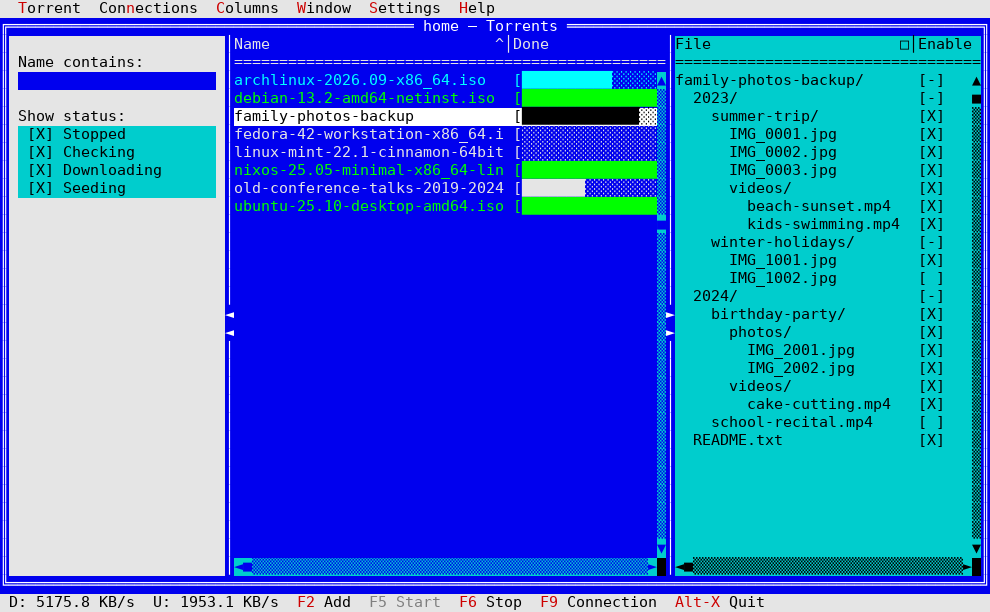
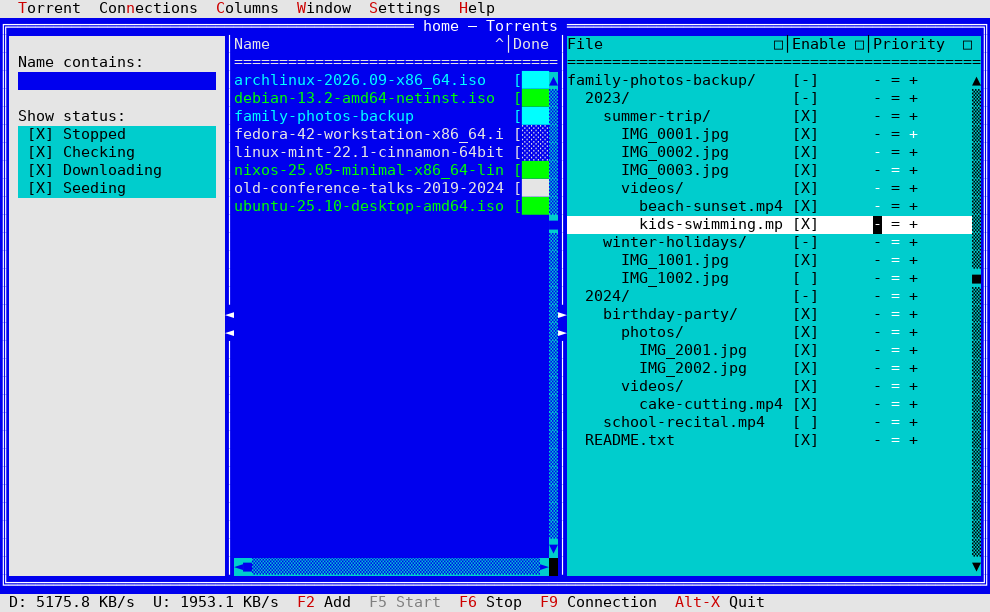
Add files via upload

diff --git a/src/ui/App.cpp b/src/ui/App.cpp
@@ -166,11 +166,11 @@ TMenuBar* App::initMenuBar(TRect r) {
 
     return new TMenuBar(r,
         *new TSubMenu(tr(Str::MenuTorrent), kbAltT) +
-            *new TMenuItem(tr(Str::MenuAdd), cmAddTorrent, kbF2) +
-            *new TMenuItem(tr(Str::MenuStart), cmStartTorrent, kbF5) +
-            *new TMenuItem(tr(Str::MenuStop), cmStopTorrent, kbF6) +
-            *new TMenuItem(tr(Str::MenuRemove), cmRemoveTorrent, kbF8) +
-            *new TMenuItem(tr(Str::MenuDeleteWithData), cmDeleteTorrentWithData, kbShiftF8) +
+            *new TMenuItem(tr(Str::MenuAdd), cmAddTorrent, kbF2, hcNoContext, "F2") +
+            *new TMenuItem(tr(Str::MenuStart), cmStartTorrent, kbF5, hcNoContext, "F5") +
+            *new TMenuItem(tr(Str::MenuStop), cmStopTorrent, kbF6, hcNoContext, "F6") +
+            *new TMenuItem(tr(Str::MenuRemove), cmRemoveTorrent, kbF8, hcNoContext, "F8") +
+            *new TMenuItem(tr(Str::MenuDeleteWithData), cmDeleteTorrentWithData, kbShiftF8, hcNoContext, "Shift+F8") +
             newLine() +
             *new TMenuItem(tr(Str::MenuStartNow), cmStartNowTorrent, kbNoKey) +
             *new TMenuItem(tr(Str::MenuVerify), cmVerifyTorrent, kbNoKey) +
@@ -182,7 +182,7 @@ TMenuBar* App::initMenuBar(TRect r) {
             newLine() +
             *new TMenuItem(tr(Str::MenuSelectMultiple), cmSelectMultiple, kbNoKey) +
             newLine() +
-            *new TMenuItem(tr(Str::MenuQuit), cmQuit, kbAltX) +
+            *new TMenuItem(tr(Str::MenuQuit), cmQuit, kbAltX, hcNoContext, "Alt-X") +
         *connectionsSubMenu +
         *new TSubMenu(tr(Str::MenuColumnsMenu), kbNoKey) +
             // Rationalized from what used to be three separate entry
@@ -203,14 +203,14 @@ TMenuBar* App::initMenuBar(TRect r) {
             // sized and positioned MDI windows. Bringing a specific
             // server's own window to the front is what the
             // "Connections" menu (above) is for instead.
-            *new TMenuItem(tr(Str::MenuWindowZoom), cmZoom, kbCtrlF5) +
-            *new TMenuItem(tr(Str::MenuWindowNext), cmNext, kbCtrlF6) +
-            *new TMenuItem(tr(Str::MenuWindowClose), cmClose, kbAltF3) +
+            *new TMenuItem(tr(Str::MenuWindowZoom), cmZoom, kbCtrlF5, hcNoContext, "Ctrl+F5") +
+            *new TMenuItem(tr(Str::MenuWindowNext), cmNext, kbCtrlF6, hcNoContext, "Ctrl+F6") +
+            *new TMenuItem(tr(Str::MenuWindowClose), cmClose, kbAltF3, hcNoContext, "Alt-F3") +
             newLine() +
             *new TMenuItem(tr(Str::MenuWindowTile), cmTile, kbNoKey) +
             *new TMenuItem(tr(Str::MenuWindowCascade), cmCascade, kbNoKey) +
             newLine() +
-            *new TMenuItem(tr(Str::MenuWindowList), cmShowWindowList, kbAlt0) +
+            *new TMenuItem(tr(Str::MenuWindowList), cmShowWindowList, kbAlt0, hcNoContext, "Alt-0") +
             newLine() +
             // Nested WITHIN this Window submenu's own item chain, not a
             // new top-level menu-bar column of its own — needs the
@@ -227,7 +227,7 @@ TMenuBar* App::initMenuBar(TRect r) {
             // now-removed submenus that used to need it here too).
             (TMenuItem&)*panelsSubMenu +
         *new TSubMenu(tr(Str::MenuSettingsMenu), kbNoKey) +
-            *new TMenuItem(tr(Str::MenuConnection), cmSettings, kbF9) +
+            *new TMenuItem(tr(Str::MenuConnection), cmSettings, kbF9, hcNoContext, "F9") +
             *new TMenuItem(tr(Str::MenuServerSettings), cmServerSettings, kbNoKey) +
             *new TMenuItem(tr(Str::MenuSessionStats), cmSessionStats, kbNoKey) +
         *new TSubMenu(tr(Str::MenuHelp), kbNoKey) +

diff --git a/src/ui/TorrentListWindow.cpp b/src/ui/TorrentListWindow.cpp
@@ -1231,13 +1231,13 @@ void TorrentListWindow::showContextMenuFor(int /*row*/, TPoint screenPos) {
     // the very first item) already reflects anything appended to it
     // afterward below, without needing to be reassigned.
     TMenuItem& items =
-        *new TMenuItem(tr(Str::MenuStart), cmStartTorrent, kbNoKey) +
+        *new TMenuItem(tr(Str::MenuStart), cmStartTorrent, kbNoKey, hcNoContext, "F5") +
         *new TMenuItem(tr(Str::MenuStartNow), cmStartNowTorrent, kbNoKey) +
-        *new TMenuItem(tr(Str::MenuStop), cmStopTorrent, kbNoKey) +
+        *new TMenuItem(tr(Str::MenuStop), cmStopTorrent, kbNoKey, hcNoContext, "F6") +
         *new TMenuItem(tr(Str::MenuVerify), cmVerifyTorrent, kbNoKey) +
         *new TMenuItem(tr(Str::MenuReannounce), cmReannounceTorrent, kbNoKey) +
-        *new TMenuItem(tr(Str::MenuRemove), cmRemoveTorrent, kbNoKey) +
-        *new TMenuItem(tr(Str::MenuDeleteWithData), cmDeleteTorrentWithData, kbShiftF8) +
+        *new TMenuItem(tr(Str::MenuRemove), cmRemoveTorrent, kbNoKey, hcNoContext, "F8") +
+        *new TMenuItem(tr(Str::MenuDeleteWithData), cmDeleteTorrentWithData, kbShiftF8, hcNoContext, "Shift+F8") +
         *new TMenuItem(tr(Str::MenuShowDetails), cmShowDetails, kbNoKey) +
         *new TMenuItem(tr(Str::MenuShowFiles), cmShowFiles, kbNoKey) +
         static_cast<TMenuItem&>(*queueMenu);

diff --git a/README.md b/README.md
@@ -4961,3 +4961,9 @@ torrent list → Files → Status name → Status checkboxes → list.
 last-selected checkbox stayed drawn in the focused color when focus moved
 to the torrent list or the name field. It is now highlighted only while
 the checkboxes really hold keyboard focus.
+
+**Menus now show their keyboard shortcuts.** Every menu item that has a
+key is labelled with it, right-aligned (Add F2, Start F5, Stop F6,
+Remove F8, Delete Shift+F8, Quit Alt-X, Zoom Ctrl+F5, Next Ctrl+F6,
+Close Alt-F3, Window list Alt-0, Connection F9). The right-click menu on
+a torrent shows F5/F6/F8/Shift+F8 as well.
